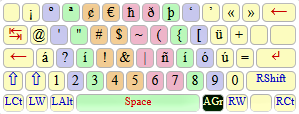
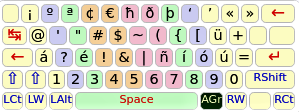
cambios visuales

diff --git a/layouts/forty/layout.html b/layouts/forty/layout.html
@@ -298,7 +298,7 @@
 <td class="button  special finger1" style="width: 1.9em;" title="Backspace"><div><span class="special">←</span></div></td>
 <td class="button  finger1" style="" title="á"><div>á</div></td>
 <td class="button  finger2" style="" title="`"><div>?</div></td>
-<td class="button  finger3" style="" title="ß"><div>í</div></td>
+<td class="button  finger3" style="" title="ß"><div>é</div></td>
 <td class="button  finger4" style="" title="´"><div>!</div></td>
 <td class="button  finger4" style="" title="¨"><div>&amp;</div></td>
 <td class="button  finger5" style="" title="ˇ"><div>|</div></td>
@@ -377,7 +377,7 @@
 <td class="button  special finger1" style="width: 1.9em;" title="Backspace"><div><span class="special">←</span></div></td>
 <td class="button  finger1" style="" title="Á"><div>Á</div></td>
 <td class="button  finger2" style="" title="~"><div>¿</div></td>
-<td class="button  finger3" style="" title="~"><div>Í</div></td>
+<td class="button  finger3" style="" title="~"><div>É</div></td>
 <td class="button  finger4" style="" title="˝"><div>¡</div></td>
 <td class="button  finger4" style="" title="~"><div>*</div></td>
 <td class="button  finger5" style="" title="~"><div>%</div></td>
